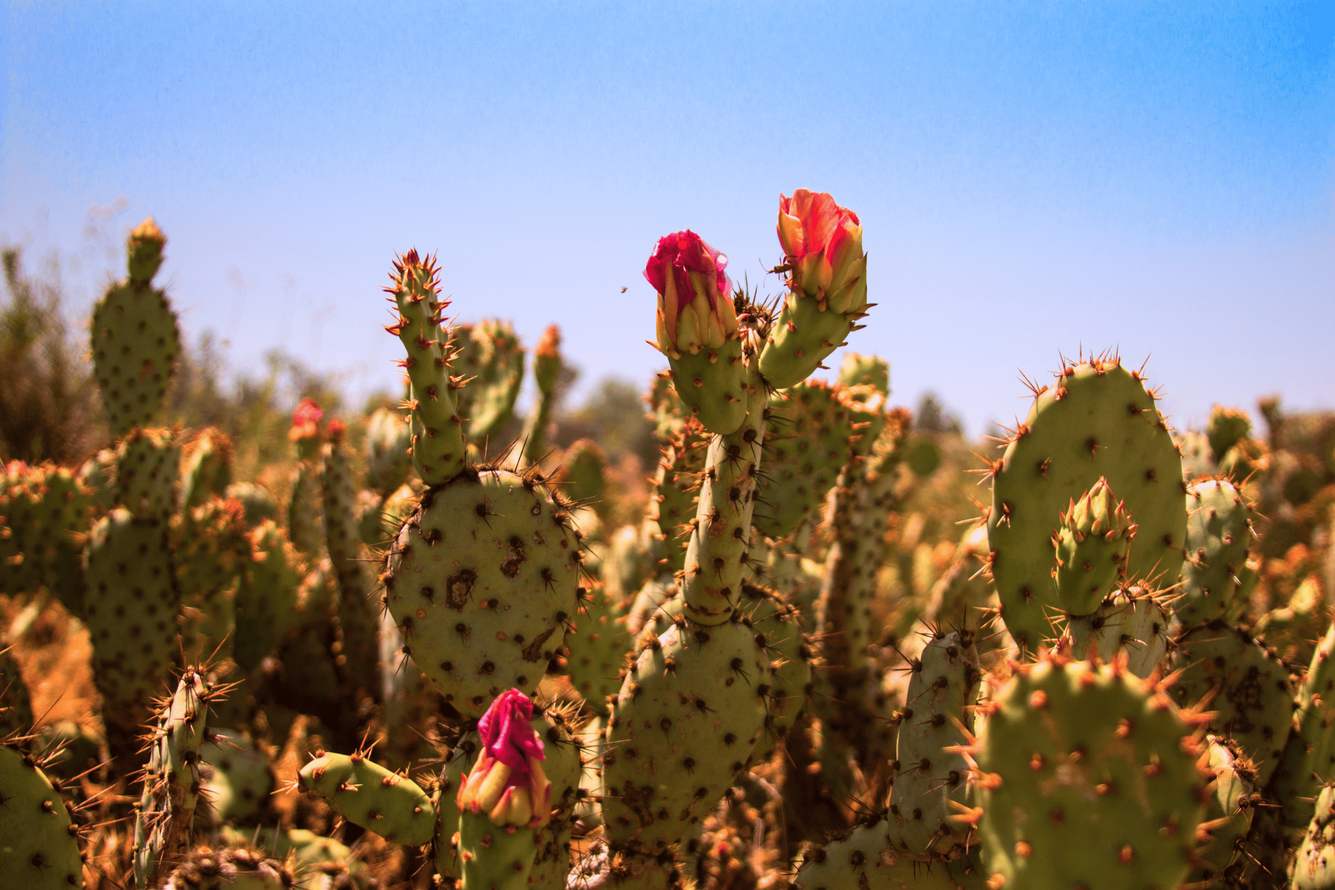
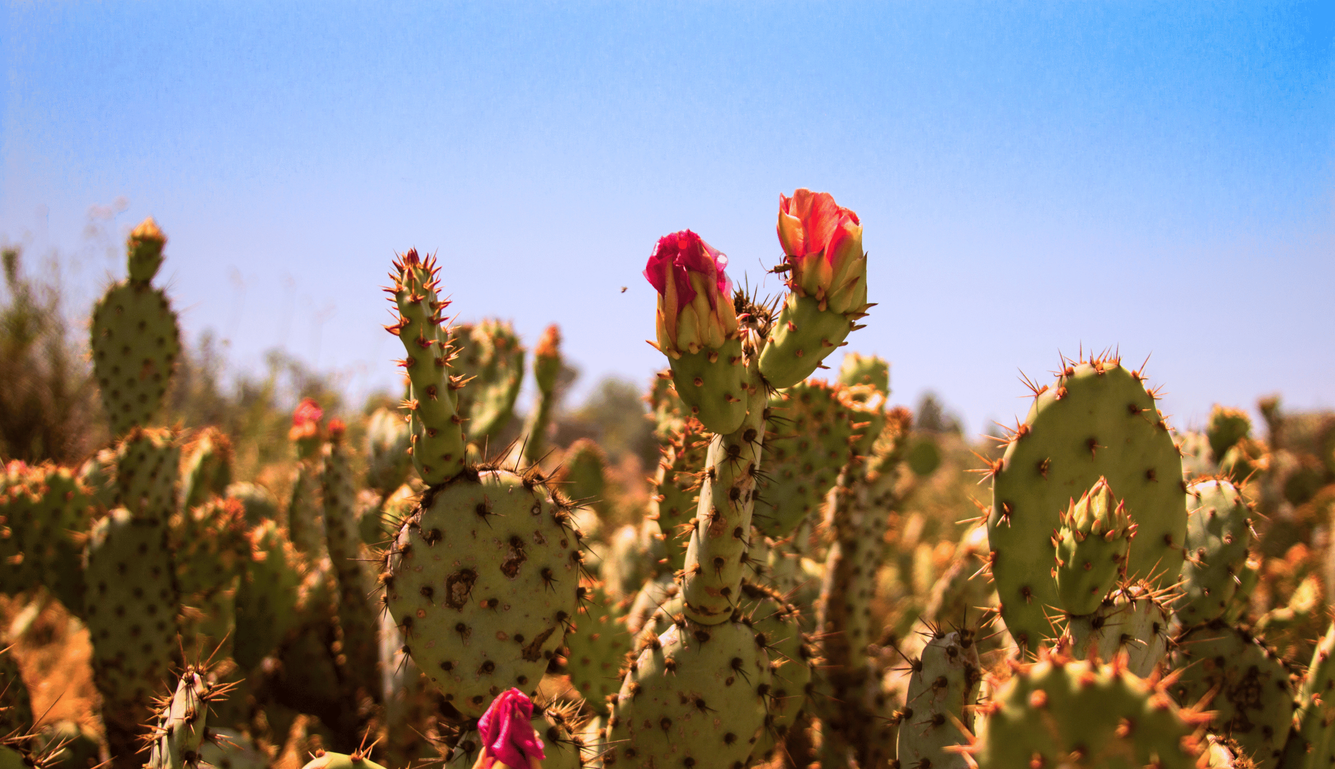
feat: atualizar imagem de fundo da seção hero do blog

diff --git a/app/blogflorescerhumano/page.tsx b/app/blogflorescerhumano/page.tsx
@@ -1,20 +1,21 @@
 // app/blogflorescerhumano/page.tsx
-import React from 'react';
-import { supabaseServer } from '@/lib/supabase/server';
-import type { Database } from '@/types/supabase';
-import type { Metadata } from 'next';
-import ExploreCategoriesGrid from './components/ExploreCategoriesGrid';
-import FeaturedArticles from './components/FeaturedArticles';
-import RecentMaterials from './components/RecentMaterials';
-import Link from 'next/link';
-import Image from 'next/image';
+import React from "react";
+import { supabaseServer } from "@/lib/supabase/server";
+import type { Database } from "@/types/supabase";
+import type { Metadata } from "next";
+import ExploreCategoriesGrid from "./components/ExploreCategoriesGrid";
+import FeaturedArticles from "./components/FeaturedArticles";
+import RecentMaterials from "./components/RecentMaterials";
+import Link from "next/link";
+import Image from "next/image";
 
 // --- Metadados Estáticos para a Página Inicial do Blog --- //
 export const metadata: Metadata = {
-  title: 'Blog Florescer Humano | Psicologia Humanista e Autoconhecimento',
-  description: 'Explore artigos sobre autoconhecimento, bem-estar, relacionamentos e crescimento pessoal através da perspectiva da psicologia humanista no Blog Florescer Humano.',
+  title: "Blog Florescer Humano | Psicologia Humanista e Autoconhecimento",
+  description:
+    "Explore artigos sobre autoconhecimento, bem-estar, relacionamentos e crescimento pessoal através da perspectiva da psicologia humanista no Blog Florescer Humano.",
   alternates: {
-    canonical: '/blogflorescerhumano',
+    canonical: "/blogflorescerhumano",
   },
   // OpenGraph e Twitter podem ser adicionados depois se necessário
 };
@@ -23,30 +24,34 @@ export default async function BlogHomePage() {
   // Buscar categorias e artigos em destaque
   const [categoriesResponse, articlesResponse] = await Promise.all([
     supabaseServer
-      .from('categorias')
-      .select('*')
-      .order('nome', { ascending: true }),
-    
+      .from("categorias")
+      .select("*")
+      .order("nome", { ascending: true }),
+
     supabaseServer
-      .from('artigos')
-      .select(`
+      .from("artigos")
+      .select(
+        `
         *,
         categorias (
           slug
         )
-      `)
-      .order('data_publicacao', { ascending: false })
-      .limit(3)
+      `
+      )
+      .order("data_publicacao", { ascending: false })
+      .limit(3),
   ]);
 
   const { data: categories } = categoriesResponse;
   const { data: featuredArticles } = articlesResponse;
 
   return (
-    <main className="flex-1">      {/* Hero Section - Layout Moderno com Foto Lado a Lado */}
+    <main className="flex-1">
+      {" "}
+      {/* Hero Section - Layout Moderno com Foto Lado a Lado */}
       <section className="relative h-screen md:h-[90vh] bg-gradient-to-br from-[#583B1F]/10 to-[#F8F5F0]/90">
         {/* Padrão texturizado sutil no fundo */}
-        <div className="absolute inset-0 opacity-25 bg-[url('/blogflorescerhumano/banners-blog/hero-cacto-florecer-humano.png')] bg-cover bg-center"></div>
+        <div className="absolute inset-0 opacity-[.5] bg-[url('/blogflorescerhumano/banners-blog/hero-cacto-florecer-humano.png')] bg-cover bg-center"></div>
         {/* Container principal com layout flexível */}
         <div className="container mx-auto px-4 h-full flex flex-col md:flex-row items-center justify-between relative z-10">
           {/* Coluna de texto - à esquerda em desktop */}
@@ -56,27 +61,28 @@ export default async function BlogHomePage() {
               <span className="absolute left-0 bottom-0 w-16 h-0.5 bg-[#C19A6B] rounded-full mt-2 transform -translate-y-2"></span>
             </h1>
             <p className="text-xl md:text-2xl text-[#583B1F]/90 font-light leading-relaxed max-w-xl animate-[slideUp_1s_ease_forwards] delay-200 mb-8">
-              Explorando o potencial humano através da psicologia humanista, arte, educação e filosofia.
+              Explorando o potencial humano através da psicologia humanista,
+              arte, educação e filosofia.
             </p>
-            
+
             {/* CTA Button */}
-            <Link 
+            <Link
               href="/blogflorescerhumano/artigos"
               className="inline-block px-8 py-3 bg-[#C19A6B] text-white rounded-md hover:bg-[#735B43] transition-all duration-300 transform hover:scale-105 shadow-lg animate-[fadeIn_1s_ease_forwards] delay-400"
             >
               Explorar Artigos
             </Link>
           </div>
-          
+
           {/* Coluna da imagem - à direita em desktop */}
           <div className="w-full md:w-1/2 flex justify-center md:justify-end items-center">
             <div className="relative group animate-[fadeIn_1s_ease_forwards] delay-300">
               {/* Container da imagem com efeitos de fluídez */}
               <div className="relative z-10 rounded-lg overflow-hidden shadow-xl border-2 border-[#C19A6B]/20 transform transition-all duration-500 md:hover:scale-[1.02]">
                 <div className="w-[300px] h-[350px] md:w-[400px] md:h-[450px] relative">
-                  <Image 
-                    src="/blogflorescerhumano/banners-blog/hero-psicologo-daniel-dantas-blog.png" 
-                    alt="Psicólogo Daniel Dantas" 
+                  <Image
+                    src="/blogflorescerhumano/banners-blog/hero-psicologo-daniel-dantas-blog.png"
+                    alt="Psicólogo Daniel Dantas"
                     className="object-cover"
                     fill
                     sizes="(max-width: 768px) 300px, 400px"
@@ -84,44 +90,74 @@ export default async function BlogHomePage() {
                     quality={90}
                   />
                 </div>
-                
+
                 {/* Efeito de brilho no hover */}
                 <div className="absolute inset-0 bg-gradient-to-tr from-[#C19A6B]/0 to-white/30 opacity-0 group-hover:opacity-100 transition-opacity duration-700"></div>
               </div>
-              
+
               {/* Elementos decorativos representando crescimento */}
               <div className="absolute -bottom-4 -right-4 w-24 h-24 border-r-2 border-b-2 border-[#C19A6B]/40 z-0"></div>
               <div className="absolute -top-4 -left-4 w-16 h-16 border-l-2 border-t-2 border-[#C19A6B]/30 z-0"></div>
               <div className="absolute top-1/2 -right-6 transform -translate-y-1/2">
-                <svg width="24" height="24" viewBox="0 0 24 24" className="text-[#C19A6B]/40">
-                  <path d="M12 2L2 7l10 5 10-5-10-5zM2 17l10 5 10-5M2 12l10 5 10-5" fill="none" stroke="currentColor" strokeWidth="1"></path>
+                <svg
+                  width="24"
+                  height="24"
+                  viewBox="0 0 24 24"
+                  className="text-[#C19A6B]/40"
+                >
+                  <path
+                    d="M12 2L2 7l10 5 10-5-10-5zM2 17l10 5 10-5M2 12l10 5 10-5"
+                    fill="none"
+                    stroke="currentColor"
+                    strokeWidth="1"
+                  ></path>
                 </svg>
               </div>
             </div>
           </div>
-        </div>        {/* Elementos florais decorativos sutis representando crescimento */}
+        </div>{" "}
+        {/* Elementos florais decorativos sutis representando crescimento */}
         <div className="absolute bottom-24 left-10 md:left-20 opacity-20 animate-pulse">
-          <svg viewBox="0 0 200 200" width="80" height="80" xmlns="http://www.w3.org/2000/svg">
-            <path fill="#C19A6B" d="M45.7,-77.2C58.9,-69.2,69.1,-55.8,76.8,-41.4C84.6,-26.9,89.8,-11.4,88.5,3.5C87.2,18.3,79.3,32.6,70.1,46.5C60.9,60.4,50.4,73.9,37.2,79.9C24,85.9,8.1,84.4,-6,80.8C-20.1,77.2,-32.3,71.4,-44.7,64.2C-57.1,57,-69.6,48.3,-75.8,36.6C-82,24.9,-81.8,10.1,-77.4,-2.5C-73.1,-15.1,-64.5,-25.5,-56.6,-36C-48.7,-46.5,-41.5,-57.1,-31.5,-66.7C-21.6,-76.3,-8.7,-84.8,4.2,-91.6C17,-98.4,32.5,-85.3,45.7,-77.2Z" transform="translate(100 100)" />
+          <svg
+            viewBox="0 0 200 200"
+            width="80"
+            height="80"
+            xmlns="http://www.w3.org/2000/svg"
+          >
+            <path
+              fill="#C19A6B"
+              d="M45.7,-77.2C58.9,-69.2,69.1,-55.8,76.8,-41.4C84.6,-26.9,89.8,-11.4,88.5,3.5C87.2,18.3,79.3,32.6,70.1,46.5C60.9,60.4,50.4,73.9,37.2,79.9C24,85.9,8.1,84.4,-6,80.8C-20.1,77.2,-32.3,71.4,-44.7,64.2C-57.1,57,-69.6,48.3,-75.8,36.6C-82,24.9,-81.8,10.1,-77.4,-2.5C-73.1,-15.1,-64.5,-25.5,-56.6,-36C-48.7,-46.5,-41.5,-57.1,-31.5,-66.7C-21.6,-76.3,-8.7,-84.8,4.2,-91.6C17,-98.4,32.5,-85.3,45.7,-77.2Z"
+              transform="translate(100 100)"
+            />
           </svg>
         </div>
-        
-        <div className="absolute top-20 right-10 md:right-20 opacity-15 animate-pulse" style={{animationDuration: '3s'}}>
-          <svg viewBox="0 0 200 200" width="60" height="60" xmlns="http://www.w3.org/2000/svg">
-            <path fill="#583B1F" d="M47.7,-73.2C62.8,-69.3,76.9,-58.9,83.5,-44.6C90,-30.4,89,-12.3,86.5,5.1C84.1,22.4,80.2,39.1,71.6,53.1C63.1,67.2,50,78.6,34.8,82.5C19.6,86.3,2.3,82.7,-13.7,78.2C-29.8,73.6,-44.6,68,-57.5,58.3C-70.4,48.6,-81.2,34.7,-82.9,19.7C-84.6,4.7,-77.1,-11.4,-69.7,-26.4C-62.3,-41.4,-55,-55.3,-43.6,-60.8C-32.2,-66.2,-16.1,-63.2,0.2,-63.5C16.5,-63.8,32.9,-77.2,47.7,-73.2Z" transform="translate(100 100)" />
+        <div
+          className="absolute top-20 right-10 md:right-20 opacity-15 animate-pulse"
+          style={{ animationDuration: "3s" }}
+        >
+          <svg
+            viewBox="0 0 200 200"
+            width="60"
+            height="60"
+            xmlns="http://www.w3.org/2000/svg"
+          >
+            <path
+              fill="#583B1F"
+              d="M47.7,-73.2C62.8,-69.3,76.9,-58.9,83.5,-44.6C90,-30.4,89,-12.3,86.5,5.1C84.1,22.4,80.2,39.1,71.6,53.1C63.1,67.2,50,78.6,34.8,82.5C19.6,86.3,2.3,82.7,-13.7,78.2C-29.8,73.6,-44.6,68,-57.5,58.3C-70.4,48.6,-81.2,34.7,-82.9,19.7C-84.6,4.7,-77.1,-11.4,-69.7,-26.4C-62.3,-41.4,-55,-55.3,-43.6,-60.8C-32.2,-66.2,-16.1,-63.2,0.2,-63.5C16.5,-63.8,32.9,-77.2,47.7,-73.2Z"
+              transform="translate(100 100)"
+            />
           </svg>
         </div>
-        
         {/* Seta indicativa de scroll com animação melhorada */}
         <div className="absolute bottom-12 left-0 right-0 z-10 flex justify-center animate-[fadeIn_1s_ease_forwards] delay-600">
           <div className="w-8 h-16 text-[#C19A6B] animate-bounce cursor-pointer hover:text-[#735B43] transition-colors duration-300">
-            <svg 
-              xmlns="http://www.w3.org/2000/svg" 
-              viewBox="0 0 24 24" 
-              fill="none" 
-              stroke="currentColor" 
-              strokeWidth="2" 
-              strokeLinecap="round" 
+            <svg
+              xmlns="http://www.w3.org/2000/svg"
+              viewBox="0 0 24 24"
+              fill="none"
+              stroke="currentColor"
+              strokeWidth="2"
+              strokeLinecap="round"
               strokeLinejoin="round"
               className="w-full h-full drop-shadow-md"
             >
@@ -129,11 +165,9 @@ export default async function BlogHomePage() {
             </svg>
           </div>
         </div>
-
         {/* Gradiente de transição na parte inferior */}
         <div className="absolute bottom-0 left-0 right-0 h-32 bg-gradient-to-t from-[#F8F5F0] to-transparent" />
       </section>
-
       <div className="space-y-12 bg-[#F8F5F0]">
         {/* Artigos em Destaque */}
         {featuredArticles && featuredArticles.length > 0 && (
